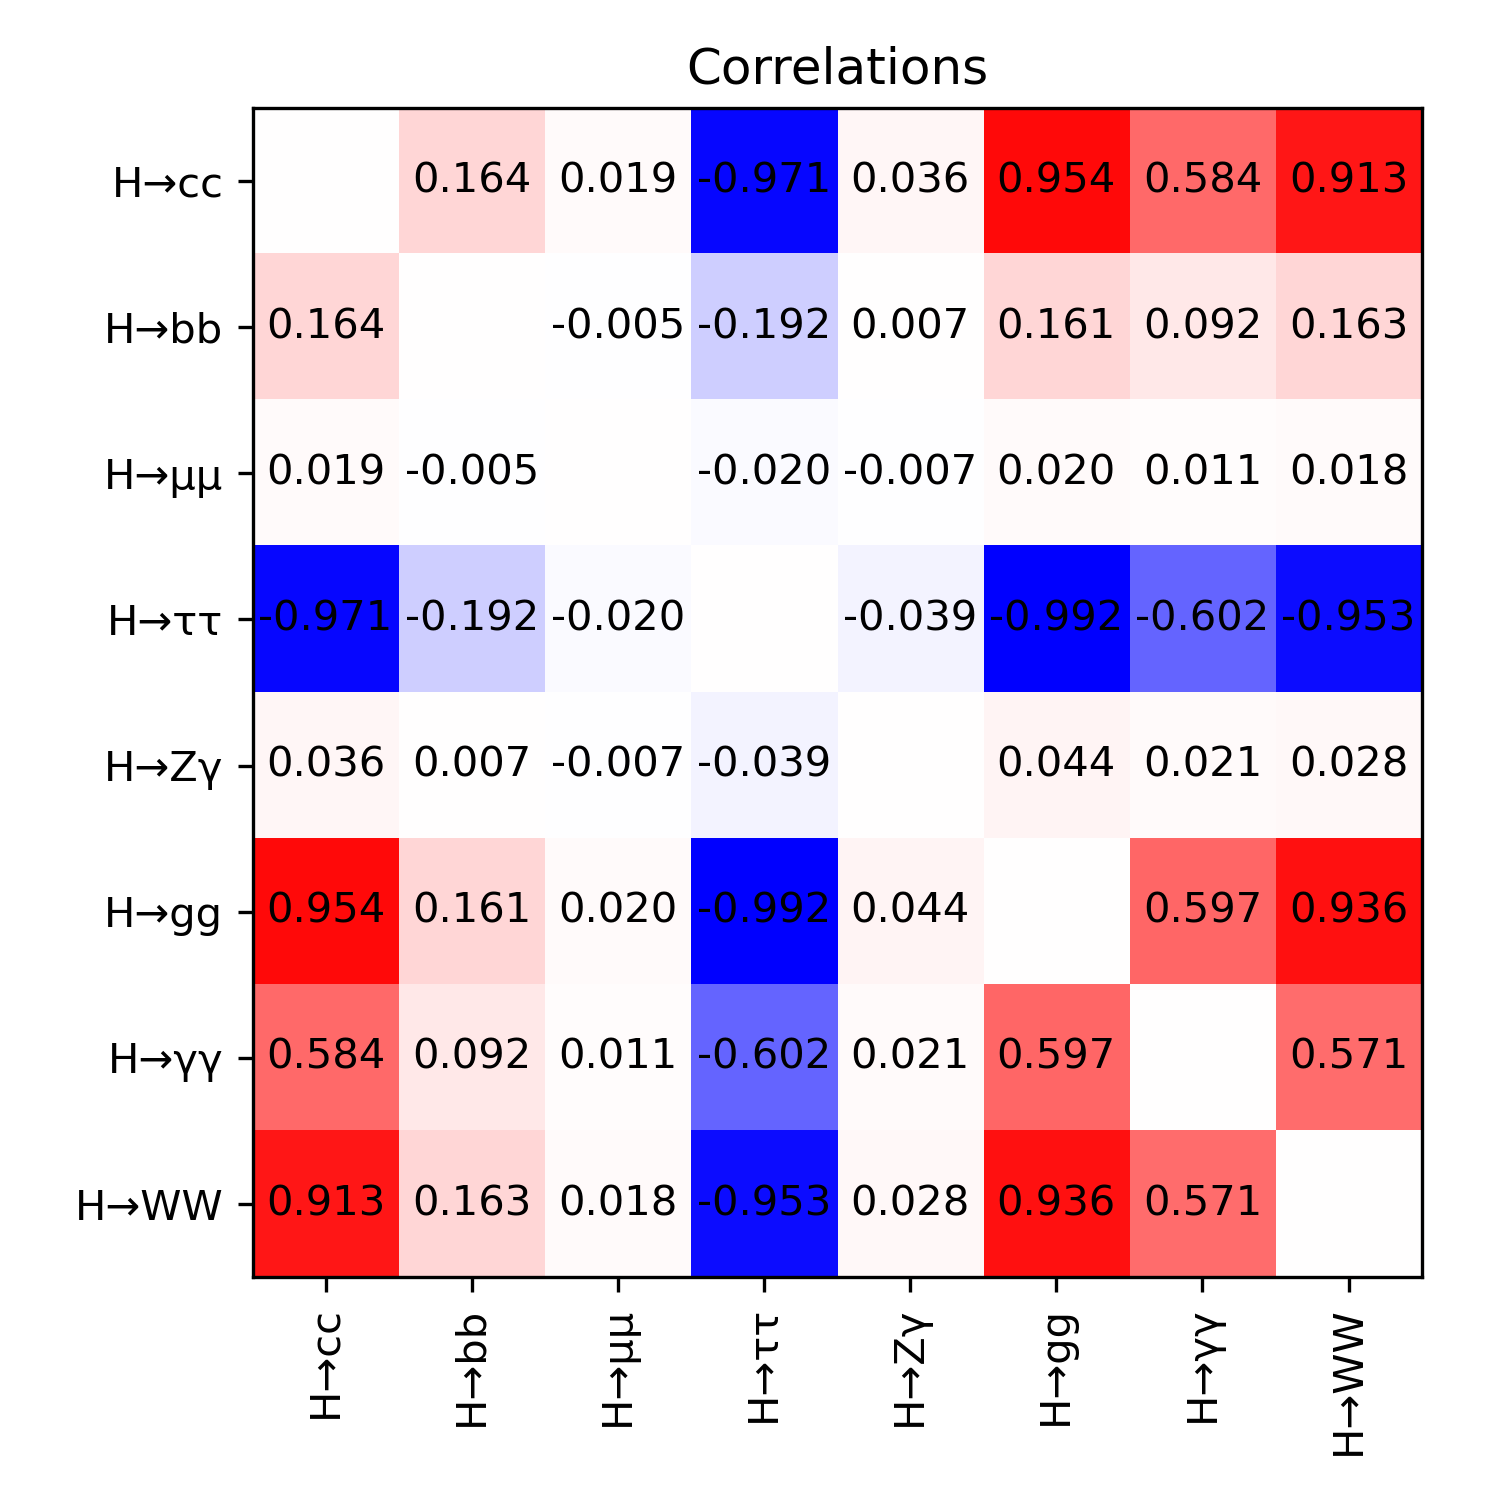
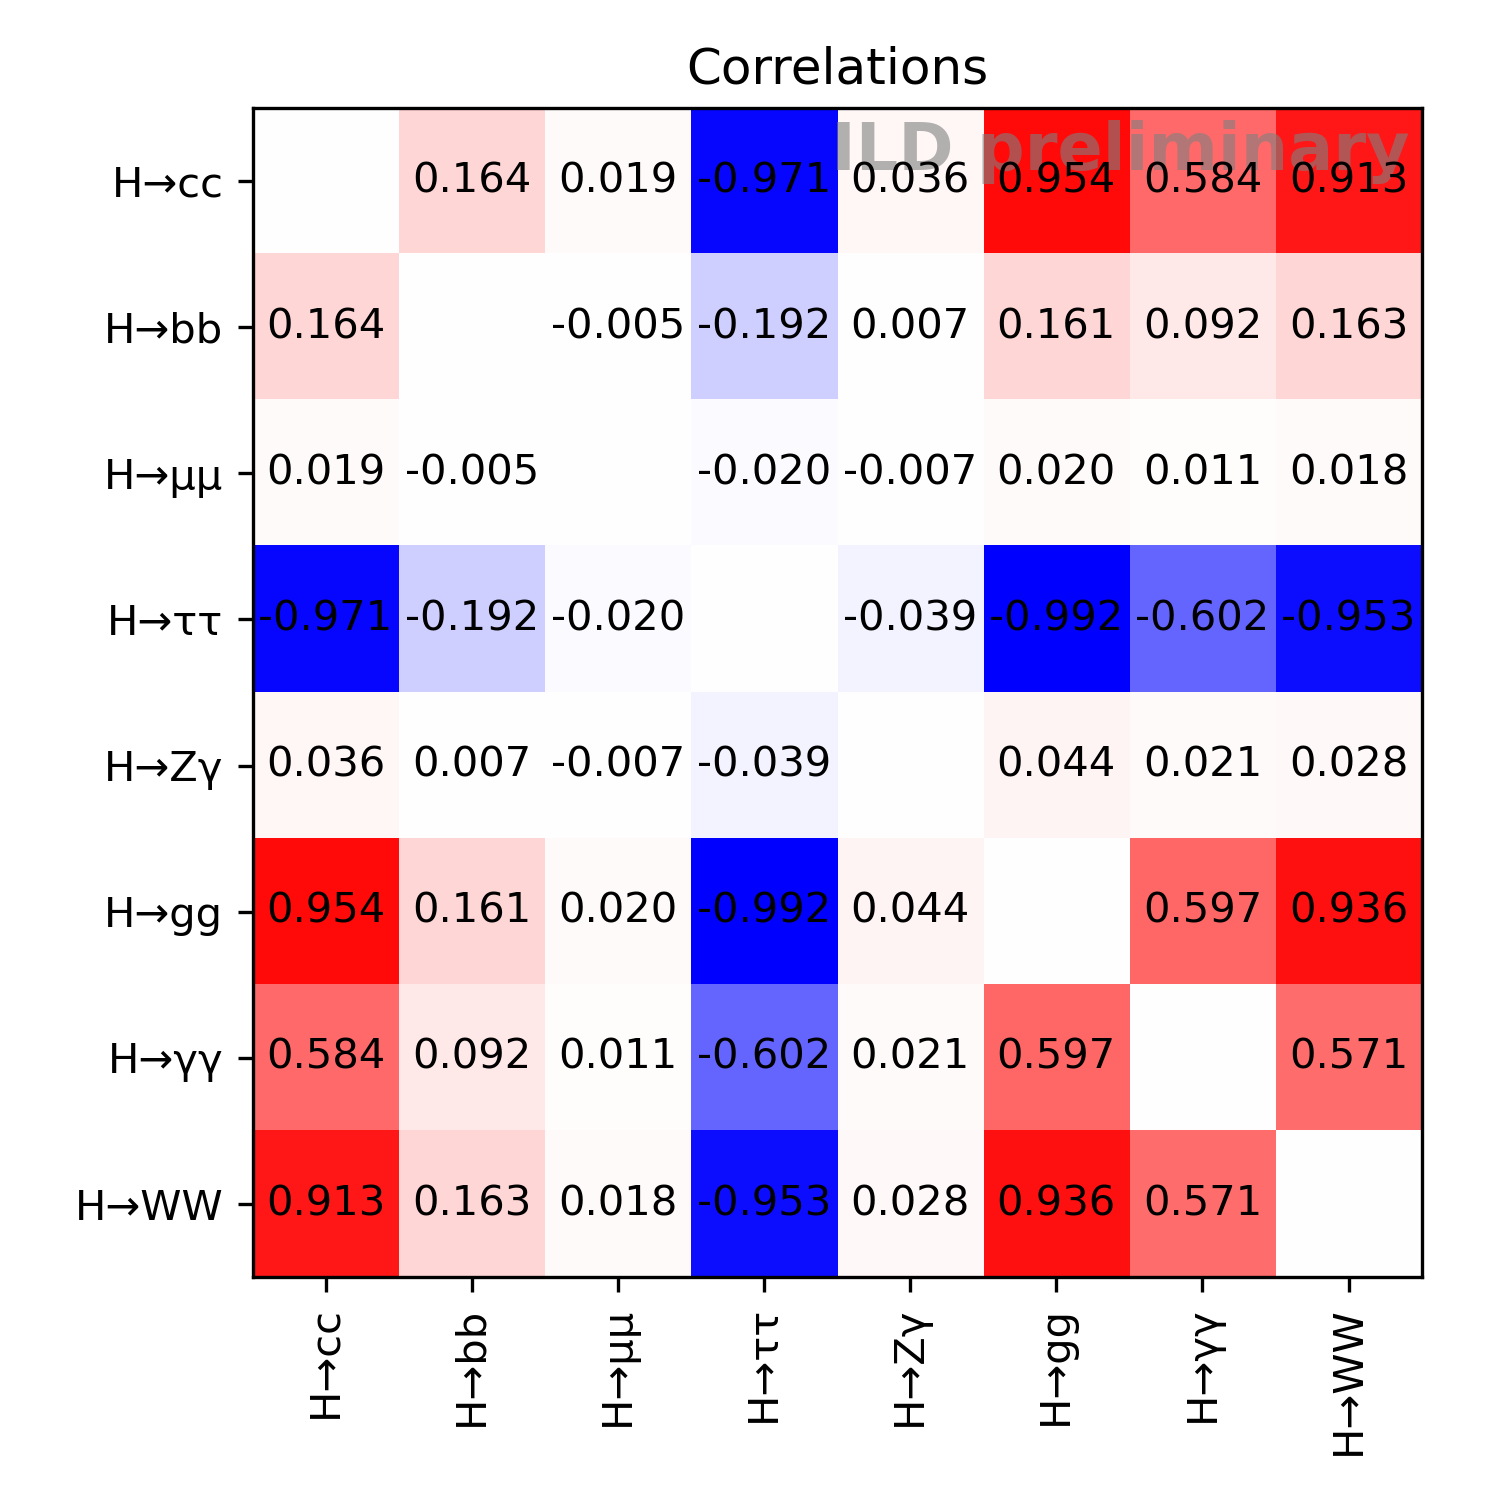
Admin: ILD preliminary tags added.

Changed region(s): [[0.552, 0.0613, 0.9507, 0.1227]]

diff --git a/plot_factory/introduction.py b/plot_factory/introduction.py
@@ -3,6 +3,7 @@ import matplotlib.pyplot as plt
 import numpy as np
 from pathlib import Path
 
+from fitting_util.ild import ild_tag
 from load_data import load_data
 from paths import FIG_PATH, N_DATA
 
@@ -15,11 +16,12 @@ def intro_sample_construction(data):
 
     def sample_counts():
         fig, ax = plt.subplots(figsize=(4, 4))
+        ild_tag(ax)
         left = [0]
         for i, br_count in enumerate(expected_matrix.M.sum(axis=0)):
             ax.barh(np.arange(len(left)), br_count, left=left, label=x_names[i])
-            ax.legend(title="(truth) Higgs decay mode")
             left += br_count
+        ax.legend(title="(truth) Higgs decay mode", loc="center right")
         ax.set_xlabel("expected signal counts")
         plt.yticks([0], ["in sample"])
         fig.tight_layout()
@@ -27,12 +29,13 @@ def intro_sample_construction(data):
 
     def category_counts():
         fig_expected, ax_expected = plt.subplots(figsize=(4, 4))
+        ild_tag(ax_expected)
         left = np.zeros(len(y_names))
         for i, br_count in enumerate(expected_matrix.M.T):
             ax_expected.barh(np.arange(len(left)), br_count,
                              left=left, label=x_names[i])
-            ax_expected.legend(title="(truth) Higgs decay mode")
             left += br_count
+        ax_expected.legend(title="(truth) Higgs decay mode", loc="center right")
         ax_expected.set_xlabel("expected signal counts")
         plt.yticks(np.arange(len(left)), y_names)
         fig_expected.tight_layout()
@@ -40,14 +43,15 @@ def intro_sample_construction(data):
 
     def signal_composition_per_category():
         fig, ax = plt.subplots(figsize=(4, 4))
+        ild_tag(ax)
         left = np.zeros(len(y_names))
 
         normed_categories = expected_matrix.M.T / expected_matrix.M.sum(axis=1)
         for i, br_count in enumerate(normed_categories):
             ax.barh(np.arange(len(left)), br_count, left=left, label=x_names[i])
-            ax.legend(title="(truth) Higgs decay mode")
             left += br_count
-        ax.set_xlabel("expected signal composition per category")
+        ax.legend(title="(truth) Higgs decay mode", loc="center right")
+        ax.set_xlabel("expected signal composition")
         plt.yticks(np.arange(len(left)), y_names)
         fig.tight_layout()
         fig.savefig(FIG_PATH / "intro_signal_composition_per_category.png")

diff --git a/plot_factory/fit_plots.py b/plot_factory/fit_plots.py
@@ -4,6 +4,7 @@ import pandas as pd
 from pathlib import Path
 
 from fitting_util.comparison_with_others import comparison_with_others
+from fitting_util.ild import ild_tag
 from fitting_util.prepare import prepare_data, get_val_and_err, shift_x
 import fitting_util.fit_setups as fs
 from load_data import default_brs, load_data
@@ -13,6 +14,7 @@ from paths import FIG_PATH, N_DATA
 def br_estimates_plot(m, data, n_data):
     m_dict, br_idx, param_names, ordered_X0 = prepare_data(m, data)
     fig, axs = plt.subplots(nrows=2, figsize=(4, 6), sharex=True)
+    ild_tag(axs[0])
     for i, (m_name, mm) in enumerate(m_dict.items()):
         x = shift_x(i, br_idx, len(m_dict))
         y, y_err = get_val_and_err(mm, param_names, m_name)
@@ -21,7 +23,7 @@ def br_estimates_plot(m, data, n_data):
         axs[1].scatter(x, y_err, marker="*", color=f"C{i+1}")
     axs[0].bar(br_idx, ordered_X0, alpha=.75, label="Input BRs", color="C0")
     axs[0].set_ylabel("BR estimate after MIGRAD")
-    axs[0].legend()
+    axs[0].legend(loc="center right")
     axs[1].set_ylabel("HESSE 67% CL interval")
     axs[1].set_xticks(br_idx)
     axs[1].set_xticklabels(param_names, rotation=90)
@@ -48,6 +50,7 @@ def correlations_plot(minimizer):
     corr = (cov / cov.diagonal()**.5).T / cov.diagonal()**.5
     corr = corr - np.eye(corr.shape[0]) # We do not want to color the diagonal.
     fig, ax = plt.subplots(figsize=(5, 5))
+    ild_tag(ax)
 
     ax.set_xticks(np.arange(cov.shape[1]))
     ax.set_yticks(np.arange(cov.shape[0]))

diff --git a/plot_factory/matrix_plots.py b/plot_factory/matrix_plots.py
@@ -3,6 +3,7 @@ import matplotlib.pyplot as plt
 import numpy as np
 from pathlib import Path
 
+from fitting_util.ild import ild_tag
 from load_data import load_data
 from paths import FIG_PATH, N_DATA
 
@@ -10,6 +11,7 @@ def plot_matrix(data, ax=None, omit_zero=True):
     M = data.M
     if ax is None:
         fig, ax = plt.subplots(figsize=(8, 10))
+    ild_tag(ax)
 
     def set_labels(ax):
         ax.set_yticks(np.arange(M.shape[0]))
@@ -44,6 +46,7 @@ def plot_matrix(data, ax=None, omit_zero=True):
 def probability_and_expected(data, prefix):
     def probability_matrix():
         fig, ax = plt.subplots(figsize=(8, 10))
+        ild_tag(ax)
         ax.set_title("Matrix entries P(Class|BR) [%]", fontsize=14)
         percent_matrix = copy.deepcopy(data)
         percent_matrix.M *= 100
@@ -54,6 +57,7 @@ def probability_and_expected(data, prefix):
     def expected_counts_matrix():
         n_events = N_DATA
         fig, ax = plt.subplots(figsize=(8, 10))
+        ild_tag(ax)
         ax.set_title((f"Expected counts for {n_events:,} Higgs events and SM BRs."), fontsize=14)
         expected_matrix = copy.deepcopy(data)
         expected_matrix.M = n_events * expected_matrix.M * expected_matrix.X0

diff --git a/plot_factory/fitting_util/comparison_with_others.py b/plot_factory/fitting_util/comparison_with_others.py
@@ -1,6 +1,7 @@
 import matplotlib.pyplot as plt
 import numpy as np
 
+from .ild import ild_tag
 from .prepare import prepare_data, get_val_and_err, shift_x
 
 
@@ -102,6 +103,7 @@ def comparison_with_others(m, data, draw_lines=True,
     ):
     m_dict, br_idx, param_names, ordered_X0 = prepare_data(m, data)
     fig, ax = plt.subplots(figsize=(4, 3))
+    ild_tag(ax)
     for i, (m_name, mm) in enumerate(m_dict.items()):
         x = shift_x(i, br_idx, len(m_dict))
         y, y_err = get_val_and_err(mm, param_names, m_name)
@@ -120,6 +122,6 @@ def comparison_with_others(m, data, draw_lines=True,
     ax.set_ylabel("$\Delta_X = g_X / g_X^{SM} - 1$")
     ax.set_xticks(br_idx)
     ax.set_xticklabels(param_names, rotation=90)
-    ax.legend()
+    ax.legend(loc="center right")
     fig.tight_layout()
     return fig

diff --git a/plot_factory/motivate_categories.py b/plot_factory/motivate_categories.py
@@ -3,6 +3,7 @@ import matplotlib.pyplot as plt
 import numexpr
 import numpy as np
 
+from fitting_util.ild import ild_tag
 from paths import FIG_PATH, get_ev, higgs_decay_id
 
 
@@ -11,6 +12,7 @@ h_color = {h: mcs[i%len(mcs)] for i, h in enumerate(higgs_decay_id)}
 
 
 def create_pie(df, ax):
+    ild_tag(ax)
     per_decay = df.groupby("hDecay")["weight"].sum()
     per_decay = per_decay / per_decay.sum()
     if set(per_decay.index).issubset(set(higgs_decay_id.values())):
@@ -43,6 +45,7 @@ def build_up_category_cc(ev):
 
     nr = (len(sel_vars_cc) - 1) // 2 + 1
     fig, axs = plt.subplots(ncols=2, nrows=max(2, nr), figsize=(8, 3*nr))
+    ild_tag(axs[0][1])
     for i, (col, cut_val) in enumerate(sel_vars_cc.items()):
         ax = axs[i % nr][i // nr]
         if np.issubdtype(cat_cc[col].dtype, np.integer):

diff --git a/presentation/sections/backup.tex b/presentation/sections/backup.tex
@@ -116,7 +116,7 @@
     \begin{column}{0.5\textwidth}
       \begin{table}
         \caption{Results of a \texttt{MINUIT} fit
-          on the expected event counts. In \%.}
+          on the expected event counts. In \%. ILD preliminary.}
         {%\resizebox{\textwidth}{!}{
         \InputTex{plot_factory/bias_table_original_stats.tex}
       }\end{table}
@@ -139,7 +139,7 @@
   \begin{column}{0.5\textwidth}
     \begin{table}
       \caption{Results of a \texttt{MINUIT} fit
-        on the expected event counts. In \%.}
+        on the expected event counts. In \%. ILD preliminary.}
       {%\resizebox{\textwidth}{!}{
       \InputTex{plot_factory/bias_table.tex}
     }\end{table}

diff --git a/plot_factory/toys.py b/plot_factory/toys.py
@@ -5,6 +5,7 @@ from pathlib import Path
 from types import SimpleNamespace
 import tqdm
 
+from fitting_util.ild import ild_tag
 from fitting_util.prepare import get_val_and_err
 import fitting_util.fit_setups as fs
 from load_data import load_data, default_brs
@@ -56,6 +57,7 @@ def uncertainty_toy_study(data, minimization_procedure, toy_dir,
 
     def toy_hist(br_name, toy_min_i, br_i, br_err_i):
         fig, ax = plt.subplots(figsize=(4, 4))
+        ild_tag(ax)
         ax.set_title(br_name)
         # ax.axvline(data.X0[data.x_names.index(br_name)], color="grey",
         ax.axvline(fit_starting_values[br_name], color="grey",

diff --git a/presentation/sections/conclusion.tex b/presentation/sections/conclusion.tex
@@ -22,7 +22,7 @@
   \begin{column}{0.45\textwidth}
     \begin{table}
       \caption{Results of a \texttt{MINUIT} fit on the \hspace{\textwidth}
-          expected event counts. In \%.}
+          expected event counts. In \%. ILD preliminary.}
       \resizebox{\textwidth}{!}{
       \InputTex{plot_factory/bias_table.tex}
     }\end{table}

diff --git a/plot_factory/fitting_util/ild.py b/plot_factory/fitting_util/ild.py
@@ -1,0 +1,6 @@
+def ild_tag(ax):
+    ax.text(.99, .99, 'ILD preliminary',
+        horizontalalignment='right',
+        verticalalignment='top',
+        transform=ax.transAxes,
+        color="gray", weight="bold", alpha=.6, fontsize=16)

diff --git a/abstract.md b/abstract.md
@@ -1,5 +1,7 @@
 # A combined fit to the Higgs Branching Ratios at ILD
 
+[LCWS 2021 contribution page](https://indico.cern.ch/event/995633/contributions/4255297/).
+
 - **Comments:** Could be considered for the Student/Young Researcher (Bachelor/Master/Young PhD) track for work in progress.
 - **Authors:** Jonas Kunath.
 - **Co-authors:** Vincent Boudry, Jean-Claude Brient, Fabricio Jimenez Morales.
